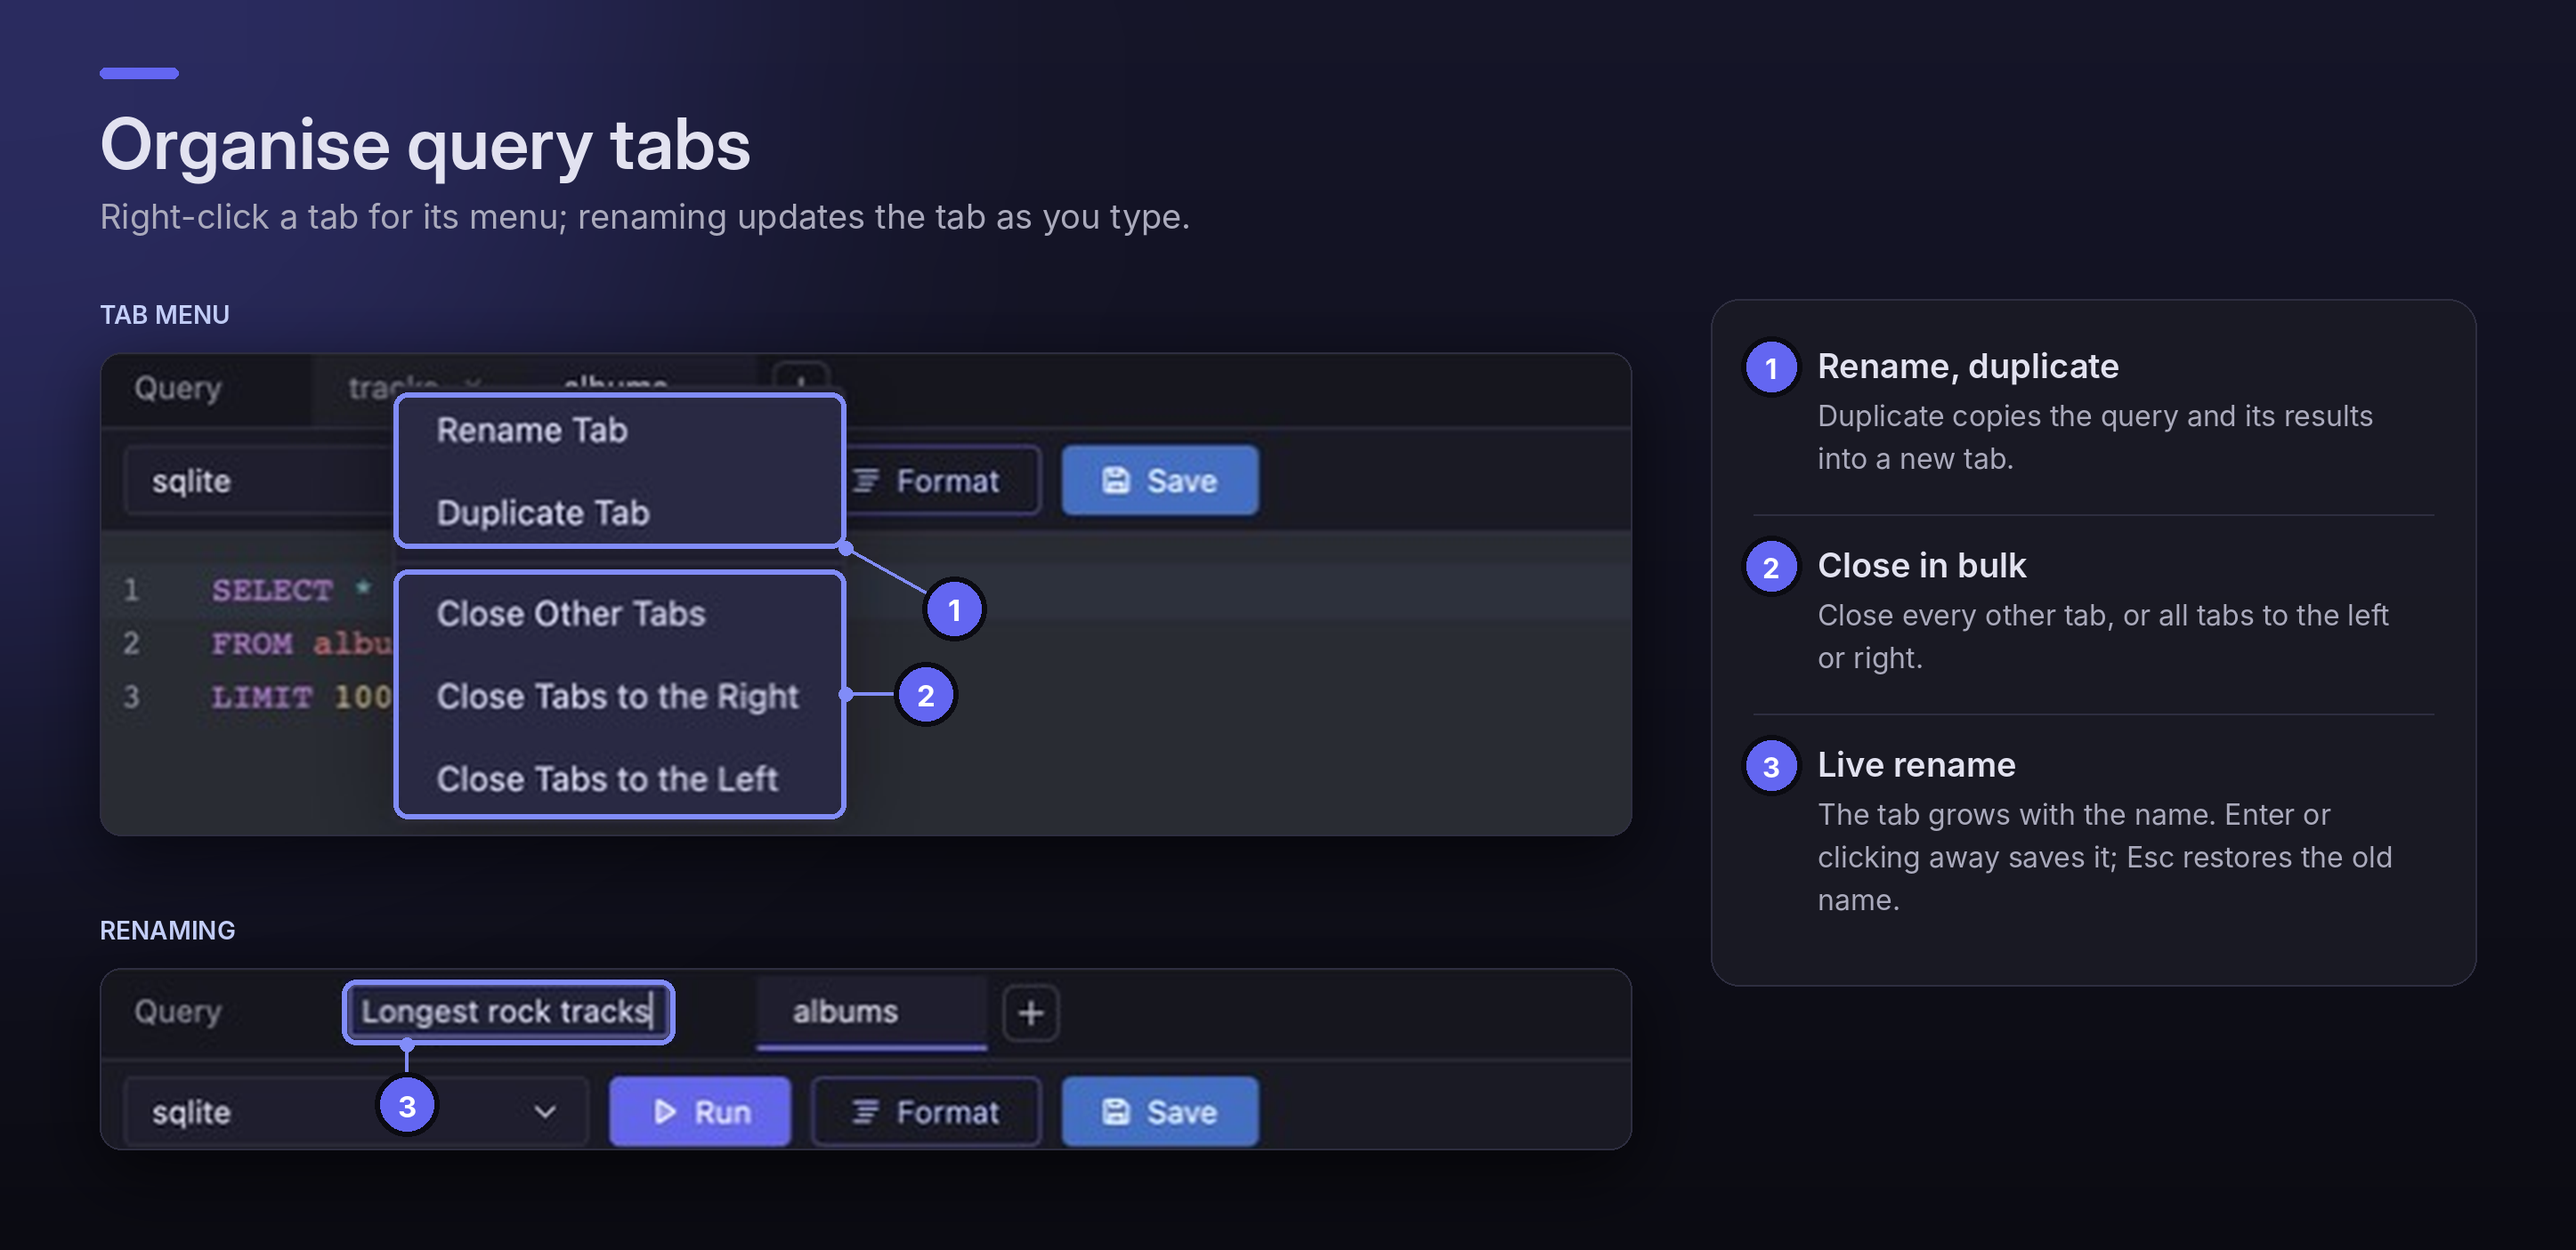
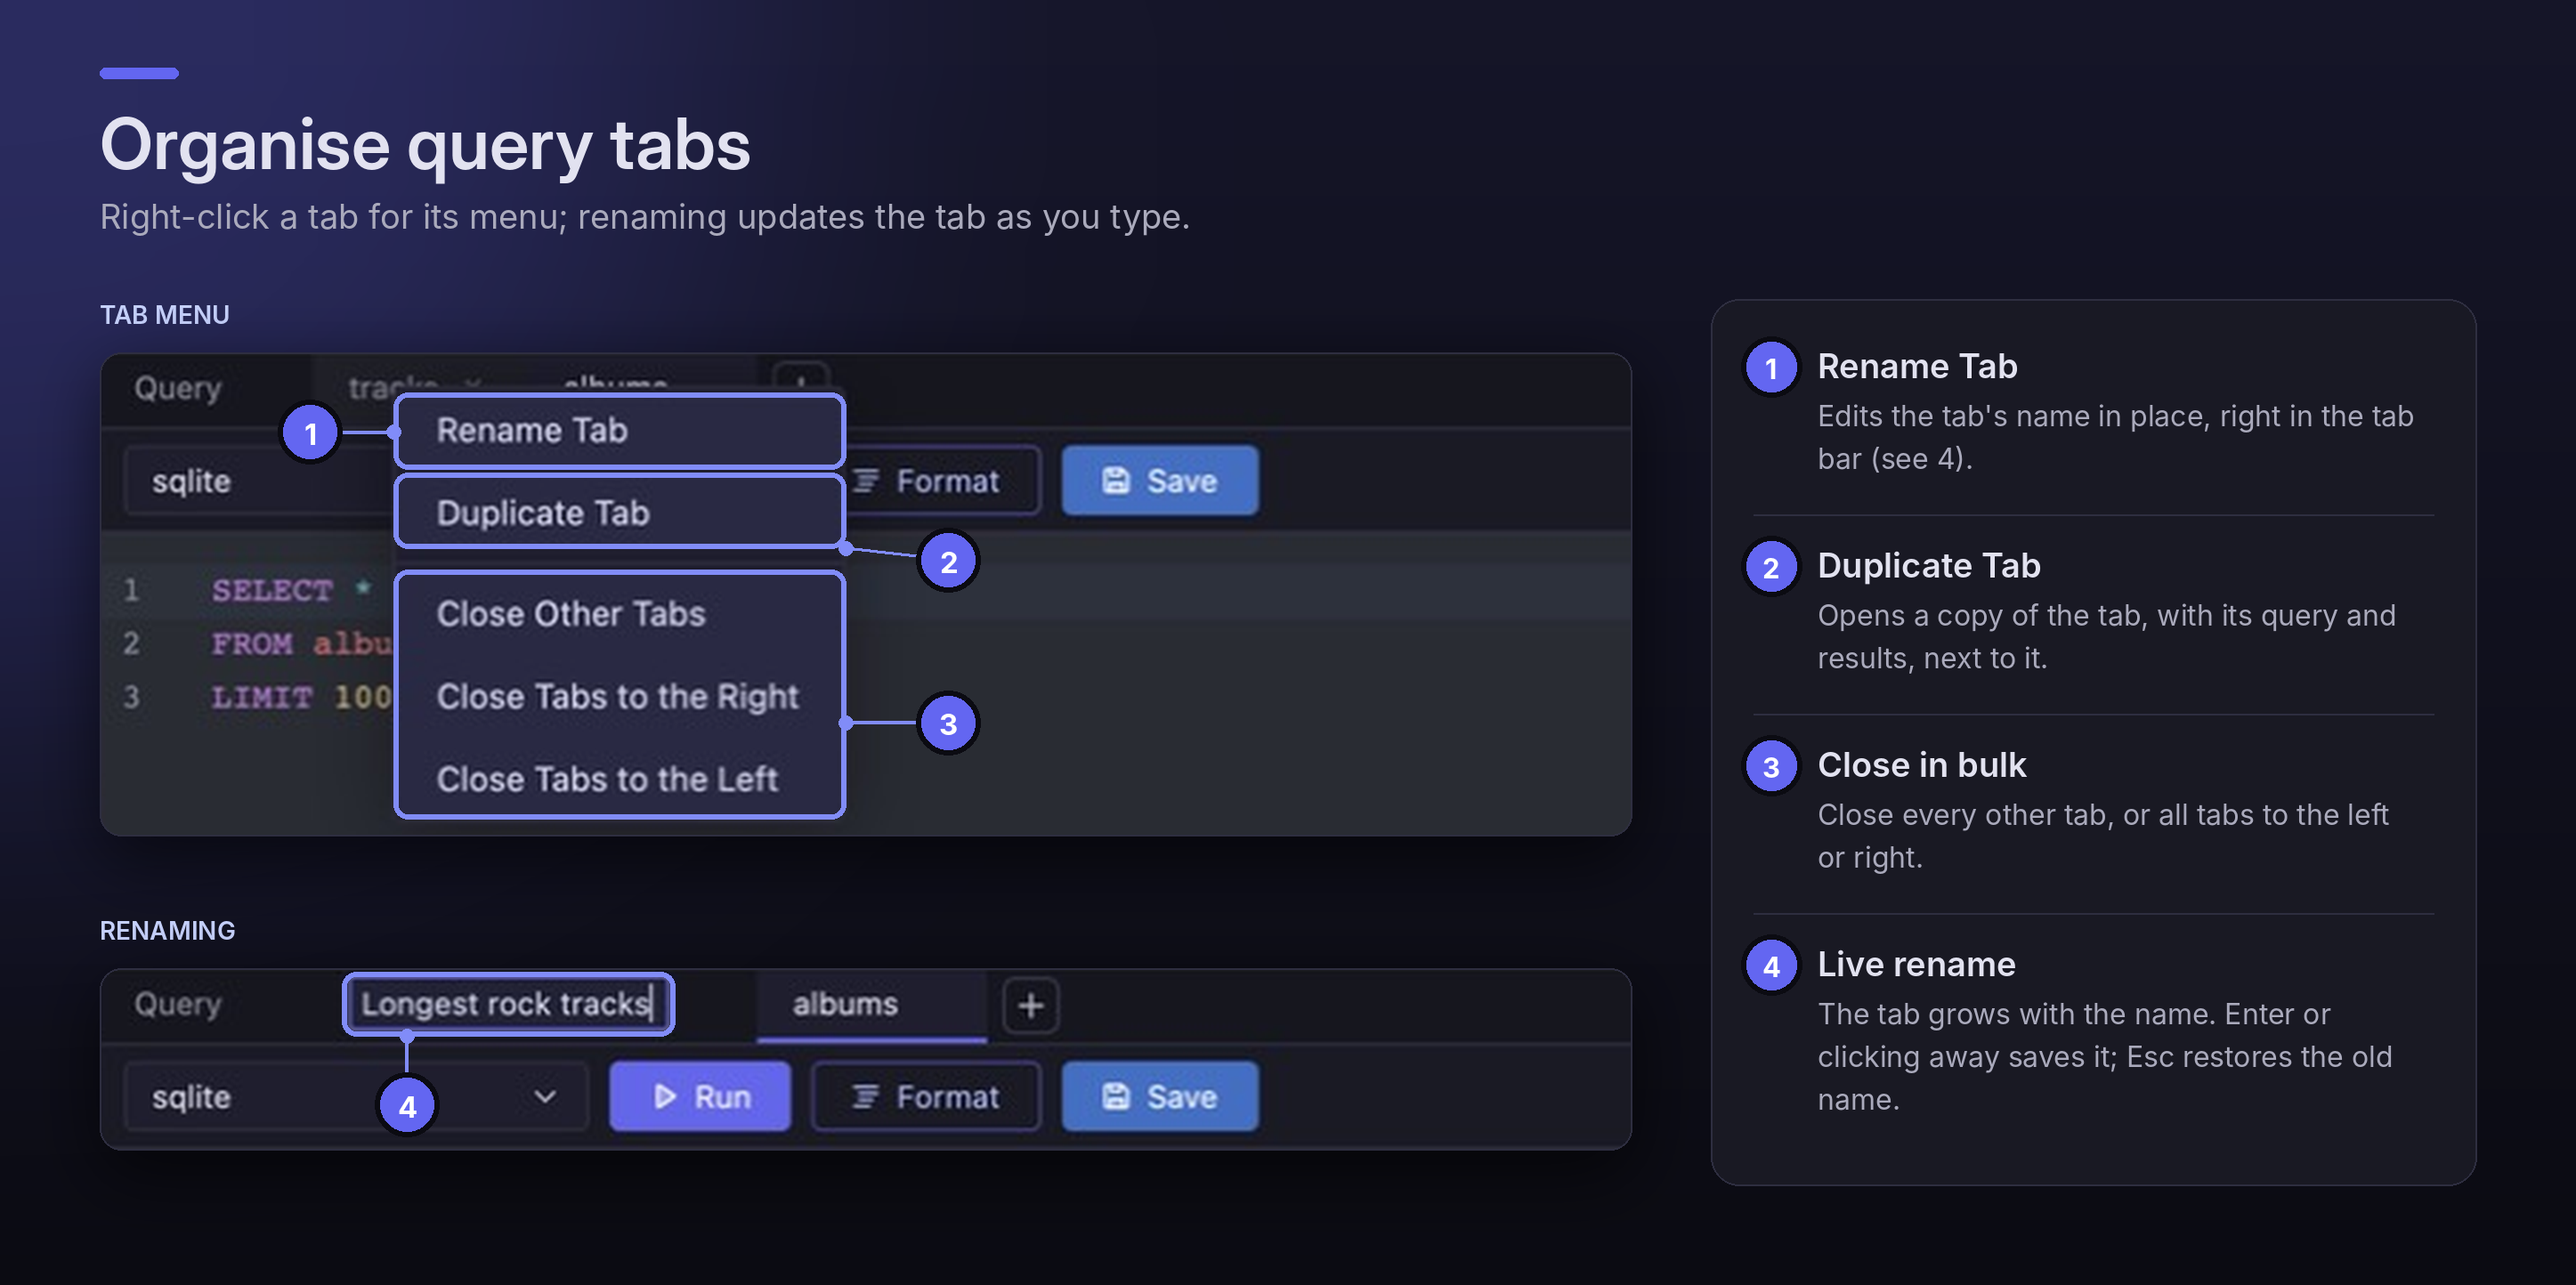
update readme

diff --git a/README.md b/README.md
@@ -53,13 +53,17 @@ Misspelled keywords, unbalanced brackets and unknown tables or columns are under
 
 ![A misspelled keyword flagged in the editor](docs/screenshots/07-lint.png)
 
-### Tabs and the editor menu
+### Tabs
 
-Right-click a tab to rename, duplicate or close tabs in bulk; renaming updates the tab as you type. The editor has the usual cut, copy, paste and select-all menu.
+Right-click a tab to rename, duplicate or close tabs in bulk; renaming updates the tab as you type.
 
 ![The tab menu and renaming a tab](docs/screenshots/06-tabs.png)
 
-![The editor's right-click menu](docs/screenshots/04-editor-menu.png)
+### Know which server you're on
+
+Give a connection (or its server group) a tab colour in Edit Connection, and every tab using it is tinted to match, as is its icon in the sidebar. A quick glance at the tab tells you which server a query will run on — handy for keeping production and test apart.
+
+![Tabs coloured by connection, and the Tab Colour setting](docs/screenshots/04-tab-colours.png)
 
 ## Features
 
@@ -72,8 +76,9 @@ Right-click a tab to rename, duplicate or close tabs in bulk; renaming updates t
   - Optional Kubernetes port-forward support for database access
   - Per-connection tab color with automatic contrasting tab text
   - Connection color swatch shown in the left navigator
-- SQL editor experience:
-  - Native GPU-rendered SQL editor
+  - AIM AWS authentication
+- SQL editor:
+  - GPU-rendered SQL editor
   - Connection-aware SQL dialect switching
   - Schema-driven SQL autocomplete
   - Find/replace panel and go-to-line (`⌘F`, `⌘G`, `⌥⌘G`)
@@ -86,7 +91,7 @@ Right-click a tab to rename, duplicate or close tabs in bulk; renaming updates t
   - Virtualized results grid for performance
   - Column sorting and copy/select behavior
   - Edit cells in place and review the generated `UPDATE` before running
-  - CSV export streamed to disk, with progress in the status bar
+  - Fast CSV export streamed to disk, with progress in the status bar
 - Schema explorer:
   - Expandable navigation tree for schemas, tables, views, indexes, and columns
   - Context menu actions for viewing tables, refreshing schema, backups, drops, and imports
